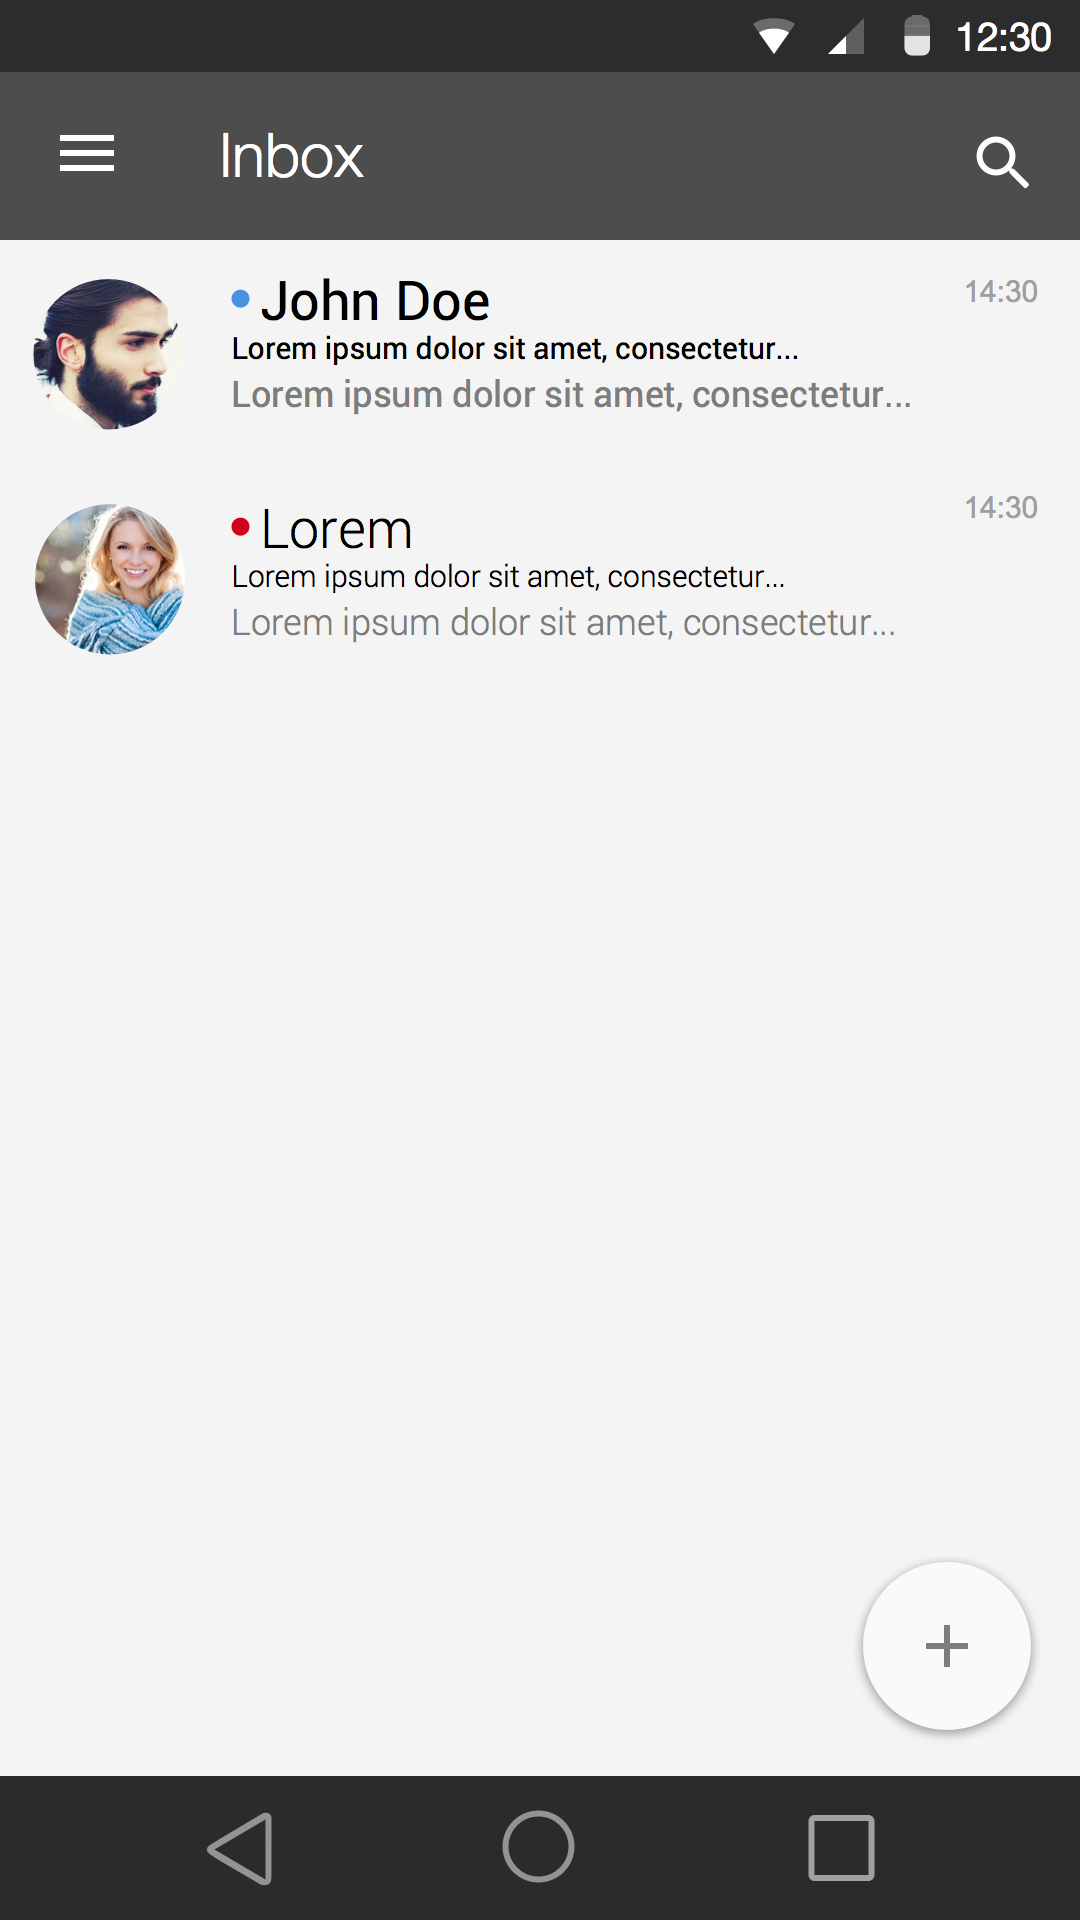
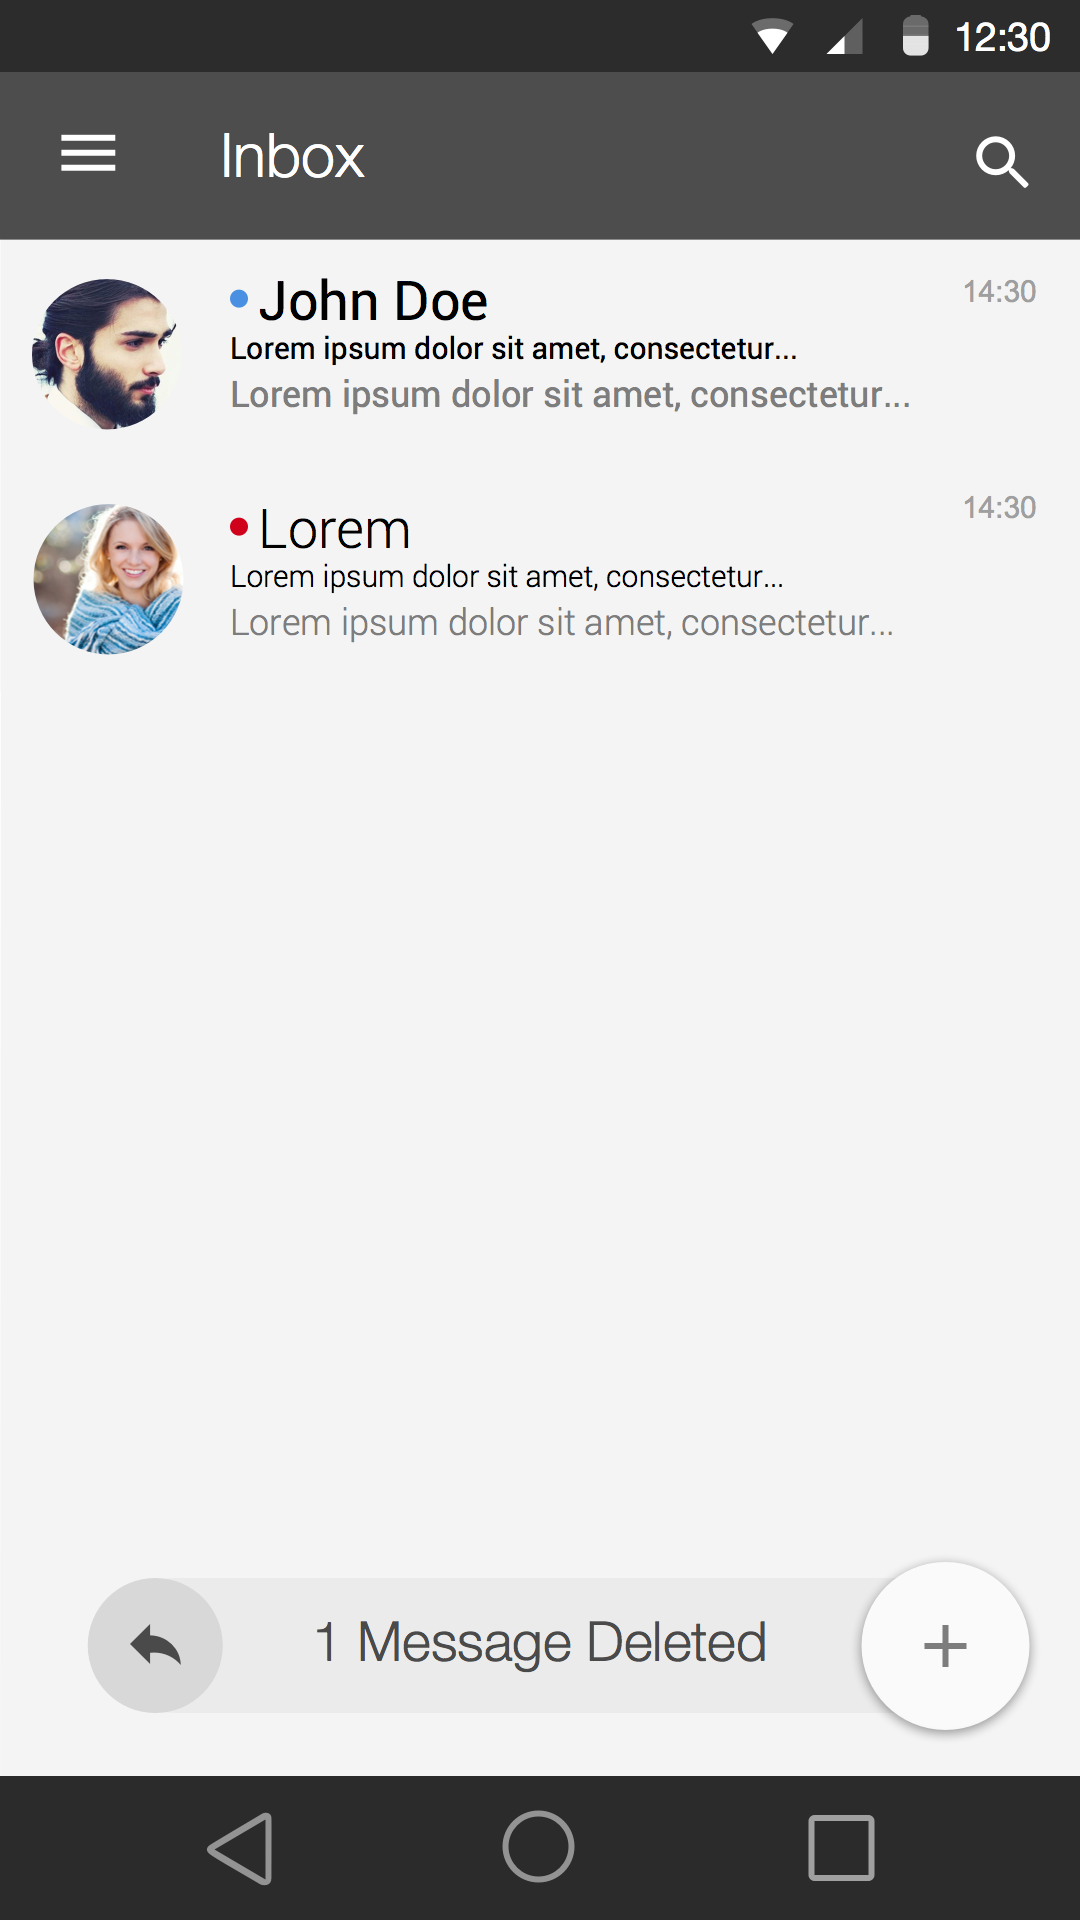
Added the undo in the inbox

diff --git a/doc/storyboard/index_swipe_right.html b/doc/storyboard/index_swipe_right.html
@@ -16,8 +16,8 @@
 						<a href="index_search.html"><div class="highlight" style="position:absolute;top: 40px;left: 358px;width: 30px;height: 30px;"></div></a>
 						<a href="new_message.html"><div class="highlight" style="position:absolute;top: 573px;left: 317px;width: 66px;height: 68px;"></div></a>
 						<a href="group_message.html"><div class="highlight" style="position:absolute;top: 260px;left: 0px;width: 400px;height: 80px;"></div></a>
-						<a href="index_alternative.html"><div class="highlight" style="position:absolute;top: 260px;left: 0px;width: 90px;height: 80px;"></div></a>
-						<a href="index.html" style="color:blue;"><div style="position:absolute;top: 280px;left: 420px;">Swipe Left!</div></a>
+						<a href="index_alternative.html"><div style="position:absolute;top: 250px;left: 420px;color:blue;">Finish Swiping!</div></a>
+						<a href="index.html" style="color:blue;"><div style="position:absolute;top: 300px;left: 420px;">Swipe Left!</div></a>
 					</div>
 					<div id="text"><h1>Tox Android Application Mockup</h1></div>
 					<a href="call.html" style="color:blue;">Get a Call!</a>

diff --git a/doc/storyboard/index_alternative.html b/doc/storyboard/index_alternative.html
@@ -11,6 +11,7 @@
 				<div>
 					<div id="center">
 						<img id="centerIMG"src="img/inbox_alternative.png">
+						<a href="index.html"><div class="highlight" style="position:absolute;top: 573px;left: 25px;width: 66px;height: 68px;"></div></a>
 					</div>
 					<div id="text"><h1>Tox Android Application Mockup</h1></div>
 					<a href="index.html" style="color:blue;">Back to Inbox! &nbsp</a>
